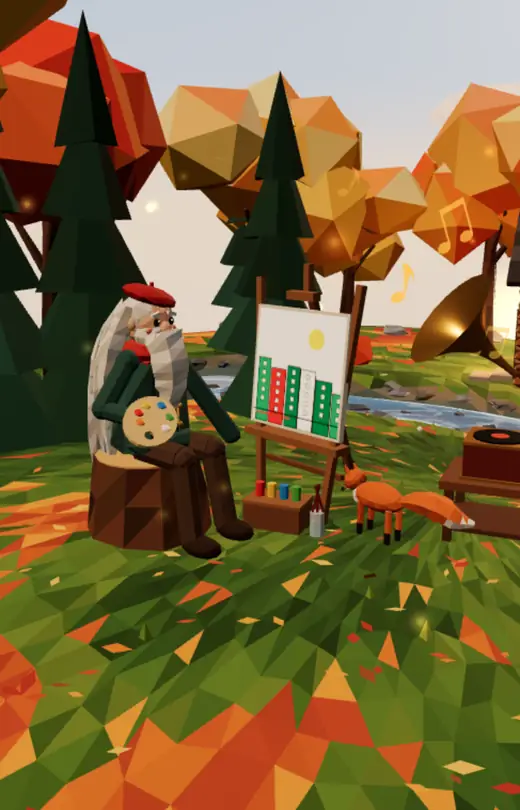
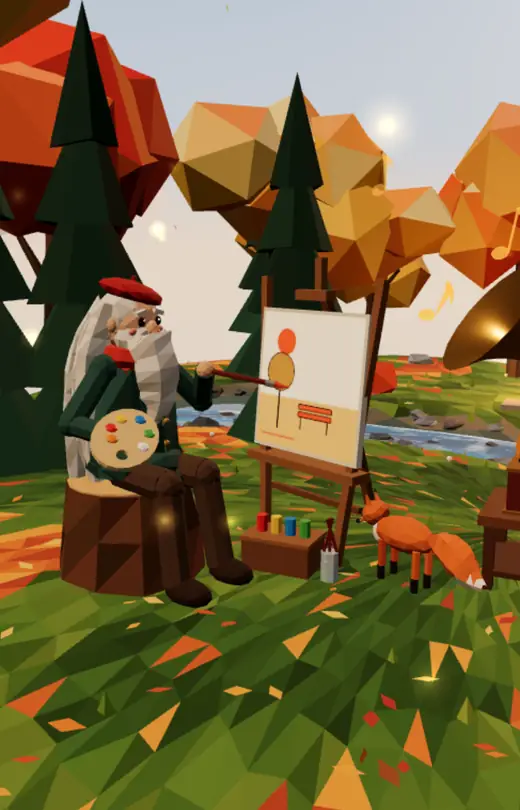
Dream: lantern lingers by the easel before drifting up, brush hand rests on the knee, closer phone framing, fresh posters

diff --git a/components/dream/characters.tsx b/components/dream/characters.tsx
@@ -75,9 +75,9 @@ export function Painter({ working, canvasWorld, canvasRight, canvasUp, canvasNor
     const stroke = t * 1.9; const lift = Math.max(0, Math.sin(stroke + 1.6)) * 0.14;
     const ax = Math.sin(stroke) * 0.3 + Math.sin(t * 0.37) * 0.12, ay = Math.sin(t * 0.61) * 0.22 + Math.sin(stroke * 2) * 0.04;
     const paintPt = V().copy(canvasWorld).addScaledVector(canvasRight, ax).addScaledVector(canvasUp, ay).addScaledVector(canvasNormal, 0.02 + lift);
-    const restPt = V().copy(canvasWorld).addScaledVector(canvasRight, -0.55 + Math.sin(t * 0.5) * 0.04).addScaledVector(canvasUp, -0.5).addScaledVector(canvasNormal, 0.55);
-    const tipW = restPt.lerp(paintPt, w);
-    g.updateWorldMatrix(true, false); const tip = g.worldToLocal(tipW.clone());
+    // at rest the brush hand sits on his knee, brush tip pointing up and out
+    const rest = V(0.42 + Math.sin(t * 0.5) * 0.02, 1.25, 0.95);
+    g.updateWorldMatrix(true, false); const tip = rest.lerp(g.worldToLocal(paintPt), w);
     // hand sits 0.5 back from the brush tip, along the line from the shoulder
     tmp.dir.subVectors(tip, SH_B).normalize(); const handP = V().copy(tip).addScaledVector(tmp.dir, -0.6);
     const el = elbowOf(SH_B, handP, 0.42, 0.4, V(0.75, 0.75, -0.6));
@@ -315,14 +315,14 @@ export function Lantern({ art, fireKey, from, lite, demo }: { art: ArtSource | n
   const paper = useMemo(() => new THREE.MeshBasicMaterial({ color: new THREE.Color("#FFD9A0").multiplyScalar(1.5), toneMapped: false, side: THREE.DoubleSide, transparent: true }), []);
   const artM = useMemo(() => new THREE.MeshBasicMaterial({ map: tex, color: new THREE.Color(1.05, 1.0, 0.9), toneMapped: false, transparent: true }), [tex]);
   const gm = useMemo(() => new THREE.SpriteMaterial({ map: glowTexture(), color: "#FFB45A", transparent: true, depthWrite: false, blending: THREE.AdditiveBlending, opacity: 0.9 }), []);
-  const DUR = 16;
+  const DUR = 22;
   useFrame(({ clock }) => {
     clockRef.current = clock.elapsedTime; const o = g.current; if (!o) return;
     let k = start == null ? -1 : (clock.elapsedTime - start) / DUR;
-    if (demo) k = 0.05 + ((clock.elapsedTime % DUR) / DUR) * 0.12;
+    if (demo) k = 0.12 + ((clock.elapsedTime % DUR) / DUR) * 0.12;
     o.visible = k >= 0 && k < 1; if (!o.visible) { if (light.current) light.current.intensity = 0; return; }
-    const e = Math.pow(k, 1.35); const t = clock.elapsedTime;
-    o.position.set(from.x + Math.sin(k * 7) * 0.5 * k + k * 1.5, from.y + 0.25 + e * 15, from.z + Math.cos(k * 5) * 0.4 * k - k * 2);
+    const e = Math.pow(k, 2.2); const t = clock.elapsedTime; // lingers by the easel, then drifts up into the sky
+    o.position.set(from.x + Math.sin(k * 7) * 0.4 * k + k * 2.4, from.y + 0.35 + Math.min(1, k * 8) * 0.25 + e * 15, from.z + Math.cos(k * 5) * 0.3 * k + k * 1.2);
     o.rotation.y = t * 0.35; o.rotation.z = Math.sin(t * 1.3) * 0.08;
     const fade = Math.min(1, k * 8) * (1 - Math.max(0, (k - 0.75) / 0.25)); const flick = 0.9 + Math.sin(t * 13) * 0.05 + Math.sin(t * 7.3) * 0.05;
     paper.opacity = fade; artM.opacity = fade; gm.opacity = 0.85 * fade * flick; o.scale.setScalar(Math.min(1, k * 10) * (1 - k * 0.3));

diff --git a/components/dream/DreamWorld.tsx b/components/dream/DreamWorld.tsx
@@ -226,7 +226,7 @@ function Fireflies({ count }: { count: number }) {
 type Pose = { pos: V3; tgt: V3; fov: number };
 const POSES: Record<"wide" | "narrow", [Pose, Pose]> = {
   wide: [{ pos: [-0.5, 4.1, 9.6], tgt: [0.45, 1.45, -1.6], fov: 40 }, { pos: [11, 3.5, 33], tgt: [0.6, -3.4, 0], fov: 38 }],
-  narrow: [{ pos: [-2.0, 3.3, 8.6], tgt: [-2.35, 1.35, 0.4], fov: 52 }, { pos: [14, 5, 52], tgt: [0.5, -3.8, 0], fov: 50 }],
+  narrow: [{ pos: [-1.85, 2.75, 7.1], tgt: [-2.4, 1.5, 0.3], fov: 54 }, { pos: [14, 5, 52], tgt: [0.5, -3.8, 0], fov: 50 }],
 };
 function Rig({ lite, zoom }: { lite: boolean; zoom: number }) {
   const { camera, pointer, size } = useThree();
